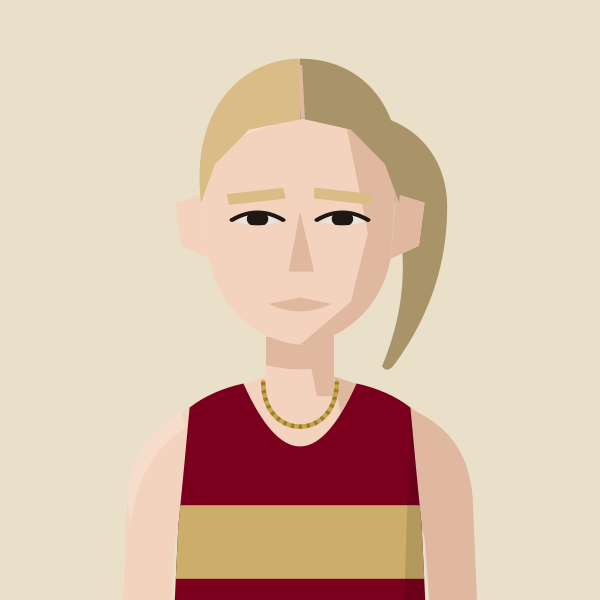
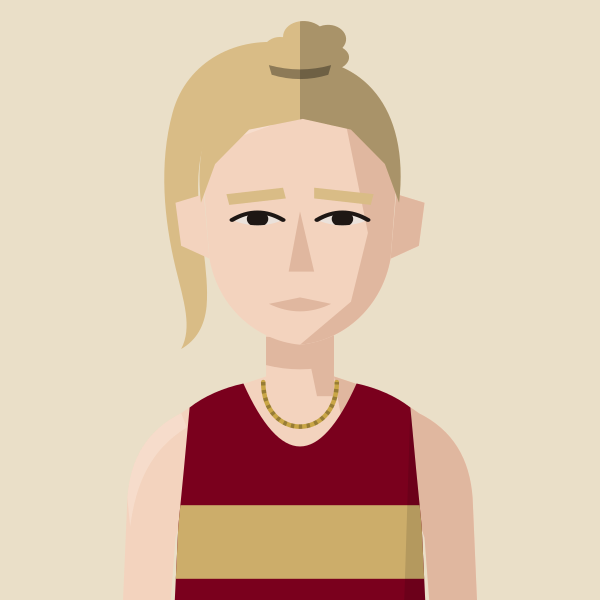
Kate Axford: hair gathered in a bunch on top, tail falling down the left side
Claude-Session: https://claude.ai/code/session_01MgmDWhFqnSSnP4iBLKXUZC

Changed region(s): [[0.27, 0.03, 0.6, 0.57], [0.63, 0.21, 0.75, 0.63]]

diff --git a/files/index.html b/files/index.html
@@ -581,7 +581,7 @@ return m;})();
 const portraitFile=(name,club)=>{const k=normalizeNameForCompare(name||'').replace(/\s*\([^)]*\)$/,'');const a=PORTRAITS[k];if(a&&a.club===club)return a.file;const b=PORTRAITS[k+'@'+club];return b?b.file:null;};
 // Athlete header figure: superstar portrait if we have one, else a grey runner in the club vest, else the plain vest icon
 // Changes whenever any portrait changes (set by tools/build_og.py), so browsers fetch fresh images instead of old cached ones
-const PORTRAIT_V='f4128ec3';
+const PORTRAIT_V='b368b262';
 const AthletePortrait=({name,club,w,fill,onClick})=>{const[failed,setFailed]=useState(false);const file=portraitFile(name,club);const src=file?`/portraits/athletes/${file}.svg?v=${PORTRAIT_V}`:PORTRAIT_CLUBS.has(club)?`/portraits/clubs/${club.replace(/\//g,'').replace(/&/g,'and')}.svg?v=${PORTRAIT_V}`:null;if(!src||failed)return<div onClick={onClick} className={onClick?'cursor-pointer':''}><ClubShield club={club} size={w}/></div>;const h=Math.round(w*148/126),ih=Math.round(w*1.4);if(fill)return<div onClick={onClick} className="cursor-pointer" style={{alignSelf:'stretch',minHeight:h,aspectRatio:'126 / 148',flexShrink:0,position:'relative',borderRadius:4,overflow:'hidden'}}><img src={src} alt={file?`Portrait of ${name.replace(/\s*\([^)]*\)$/,'')}`:`Runner in ${CLUBS[club]?.name||club} vest`} style={{position:'absolute',top:0,left:0,display:'block',width:'100%',height:'auto'}} onError={()=>setFailed(true)}/></div>;return<div style={{width:w,height:h,borderRadius:4,overflow:'hidden',flexShrink:0}}><img src={src} alt={file?`Portrait of ${name.replace(/\s*\([^)]*\)$/,'')}`:`Runner in ${CLUBS[club]?.name||club} vest`} width={w} height={ih} style={{display:'block',width:w,height:ih}} onError={()=>setFailed(true)}/></div>;};
 const getClubVestSvg=(club)=>{
   const p="M3 0 L6 0 Q7 4 10 5 Q13 4 14 0 L17 0 L17 20 L3 20 Z";

diff --git a/tools/gen_portraits.py b/tools/gen_portraits.py
@@ -130,6 +130,8 @@ HAIR["messyfringe"] = '<path d="M63,102 L59,76 L62,58 L70,46 L79,41 L82,30 L92,3
 HAIR["wavyback"] = '<path d="M64,108 C60,58 80,38 100,38 C121,38 140,58 136,108 L131,88 Q128,72 117,66 Q108,63 100,64 Q90,63 82,67 Q72,73 69,88 Z"/><path d="M64,96 Q56,104 60,114 Q54,122 60,132 Q56,142 64,148 L68,140 Q64,132 67,124 Q63,116 67,108 Z"/><path d="M136,96 Q144,104 140,114 Q146,122 140,132 Q144,142 136,148 L132,140 Q136,132 133,124 Q137,116 133,108 Z"/>'
 HAIR_BACK["wavyback"] = '<path d="M60,90 C58,54 80,36 100,36 C120,36 142,54 140,90 Q148,104 142,118 Q150,132 140,146 Q144,158 132,160 L68,160 Q56,158 60,146 Q50,132 58,118 Q52,104 60,90 Z"/>'
 HAIR["tightbun"] = HAIR["slick"]
+HAIR["highpony"] = HAIR["ponytail"].replace('/>','/>',1) + '<path d="M88,42 C84,34 88,26 94,27 C94,20 102,17 107,22 C113,19 119,26 115,32 C120,36 116,42 112,42 Z"/>'
+HAIR_BACK["highpony"] = '<path d="M96,30 C78,26 60,38 55,62 C50,86 52,112 56,134 C59,150 62,162 58,172 Q66,166 67,152 C68,136 64,116 64,96 C64,72 72,52 92,44 Z"/>'
 HAIR["messyvolume"] = '<path d="M64,104 C62,94 59,88 56,84 C60,82 61,78 60,72 C58,62 60,52 66,46 Q66,34 77,36 Q78,25 90,30 Q95,19 104,27 Q114,19 119,30 Q131,27 129,38 Q139,40 140,50 C143,58 142,66 140,72 C140,78 142,84 145,88 C140,90 137,96 136,104 L132,86 C130,76 126,68 118,62 C112,60 106,62 100,61 C94,62 86,60 80,63 C74,67 70,76 68,86 Z"/><g fill="none" stroke="#000" stroke-opacity=".22" stroke-width="1.4" stroke-linecap="round"><path d="M80,52 Q92,40 106,42"/><path d="M110,40 Q122,42 130,54"/><path d="M68,62 Q72,50 82,44"/></g>'
 HAIR["spiky"] = '<path d="M65,100 L63,76 L65,60 L69,52 L66,44 L75,46 L77,37 L85,41 L89,30 L95,37 L101,27 L106,36 L113,29 L115,39 L123,35 L124,45 L132,44 L131,53 L135,62 L137,76 L135,100 L132,82 L127,70 L121,64 L116,68 L110,62 L104,67 L99,61 L93,66 L87,62 L82,67 L76,64 L71,72 L68,84 Z"/>'
 HAIR_BACK["tightbun"] = '<ellipse cx="136" cy="96" rx="13" ry="13"/>'
@@ -247,6 +249,8 @@ def figure(kit, mode="custom", skin=1, hair="crop", hair_colour="dark brown", fa
                 hg.append(f'<clipPath id="hr{tag}">{HAIR["curtains"]}</clipPath><path clip-path="url(#hr{tag})" d="M56,84 C52,50 76,28 100,28 C124,28 148,50 144,84 C132,58 116,48 104,52 L101,60 L99,60 L96,52 C84,48 68,58 56,84 Z" fill="{HAIR_COL.get(roots, roots)}"/>')
             if hair == "ponytail":
                 hg.append(f'<path d="M100,40 L101,65" stroke="{dk}" stroke-width="1.5"/>')
+            if hair == "highpony":  # hair tie where the bunch is gathered on top
+                hg.append('<path d="M89,40 Q100,44 111,40 L110,44.5 Q100,48.5 90,44.5 Z" fill="#000" fill-opacity=".35"/>')
     if custom and glasses:
         hg.append('<g fill="#FFFFFF" fill-opacity=".18" stroke="#9A9DA3" stroke-width="1.6"><rect x="74" y="103" width="22" height="17" rx="5"/><rect x="104" y="103" width="22" height="17" rx="5"/></g>'
                   '<path d="M96,109 Q100,106 104,109 M74,108 L66,106 M126,108 L134,106" fill="none" stroke="#9A9DA3" stroke-width="1.6"/>')
@@ -681,4 +685,4 @@ save("alice-crane", figure("DMV", skin=1, hair="wavytie", hair_colour="#B8935E")
 save("martina-conner", figure("BEL", skin=1, hair="ponytail", hair_colour="#C2A06A"))
 save("georgie-grgec", figure("HHH", skin=1, hair="ponytail", hair_colour="#4A3226"))
 save("katie-snowden", figure("HHH", skin=1, hair="ponytail", hair_colour="#D2B27A"))
-save("kate-axford", figure("BEL", skin=1, hair="ponytail", hair_colour="#D9BC86", necklace="#C9A646"))
+save("kate-axford", figure("BEL", skin=1, hair="highpony", hair_colour="#D9BC86", necklace="#C9A646"))
